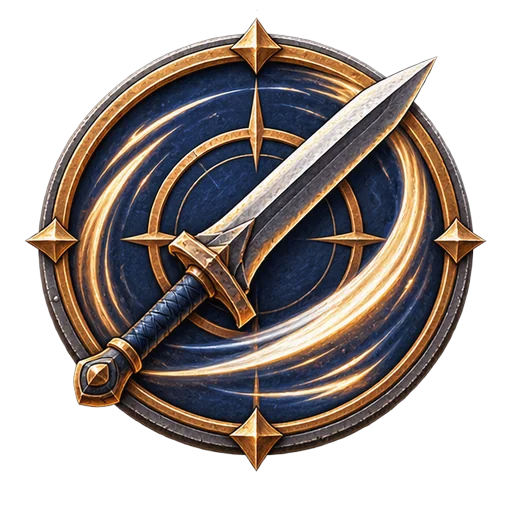
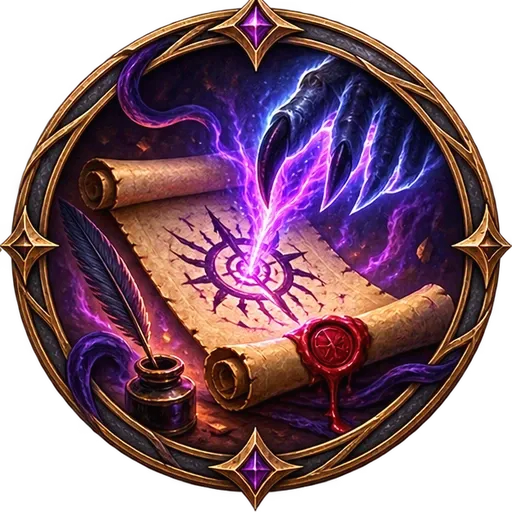
Emblemas reais de Bruxo + 4 Patronos (recortados de grid 2x2, gerado por IA)
bruxo-banner.webp deixa de ser cópia do Guerreiro. Novos
bruxo-patrono-{arquifada,celestial,infero,grande-antigo}-banner.webp —
IconeClasse já pega pelo id automaticamente (sem mudança de código),
aparecem tanto na tela de Classe do wizard (cinza, ainda "em breve")
quanto na tela de Escolha de Subclasse do Level Up.

Claude-Session: https://claude.ai/code/session_01XSASndskpH96XhQBgKCaC1

diff --git a/src/version.ts b/src/version.ts
@@ -1,1 +1,1 @@
-export const APP_VERSION = 'v202609_0736';
+export const APP_VERSION = 'v202609_0749';

diff --git a/PENDENCIAS.md b/PENDENCIAS.md
@@ -248,14 +248,17 @@ no celular ficar perceptivelmente lento: parar de embutir
 aplicar code-splitting. Ninguém decidiu fazer isso ainda — só
 registrado como possibilidade.
 
-**Emblemas das outras 10 classes são placeholder (cópia do emblema do
+**Emblemas das outras 9 classes são placeholder (cópia do emblema do
 Guerreiro).** O Osmar já subiu os emblemas novos (formato redondo) de
-Guerreiro e Bardo — as 10 restantes (Bárbaro, Bruxo, Clérigo, Druida,
-Feiticeiro, Guardião, Ladino, Mago, Monge, Paladino) usam uma cópia do
-emblema do Guerreiro por enquanto (aparecem cinza, dentro do card "em
-breve"). Trocar pelo arquivo real assim que existir — é só substituir
-`src/assets/icones-classes/{id}-banner.png`, o código não muda. Ver
-DECISOES-DESIGN.md "Ícones novos (emblema redondo)".
+Guerreiro, Bardo e **Bruxo** (classe + os 4 Patronos, gerados por IA em
+grid 2x2, recortados e comprimidos em `webp`) — as 9 restantes
+(Bárbaro, Clérigo, Druida, Feiticeiro, Guardião, Ladino, Mago, Monge,
+Paladino) usam uma cópia do emblema do Guerreiro por enquanto (aparecem
+cinza, dentro do card "em breve"). Trocar pelo arquivo real assim que
+existir — é só substituir `src/assets/icones-classes/{id}-banner.webp`,
+o código não muda (`IconeClasse` acha pelo nome do arquivo
+automaticamente). Ver DECISOES-DESIGN.md "Ícones novos (emblema
+redondo)".
 
 **Contexto:** decisão do Osmar após fechar o Plano de Equipamento —
 "vamos pra sintonização" (E4) e depois "a gente vai começar uma
